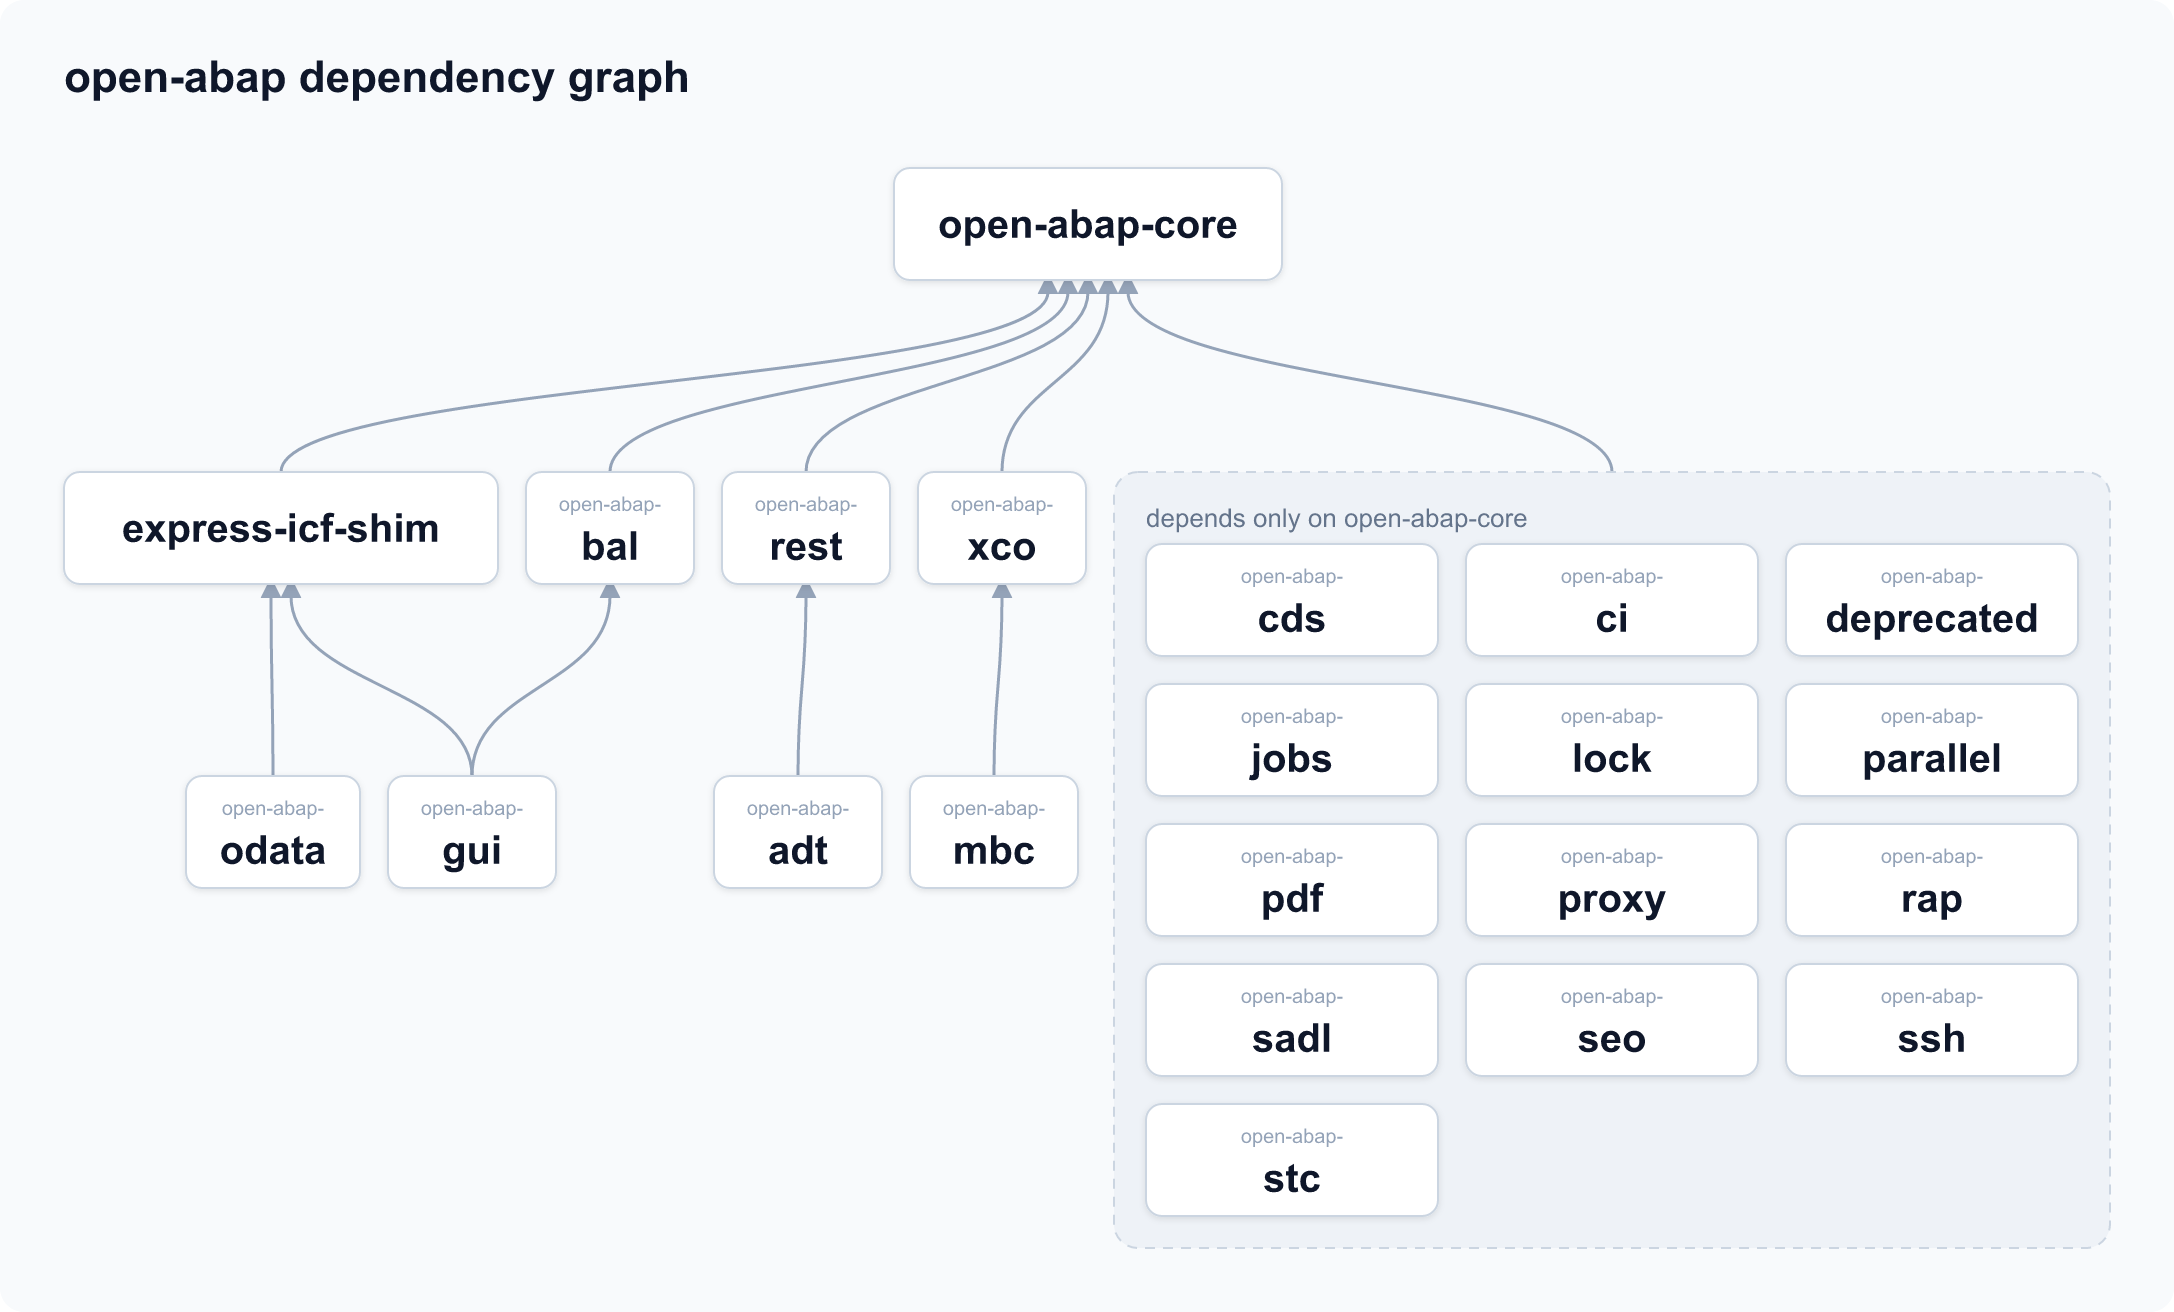
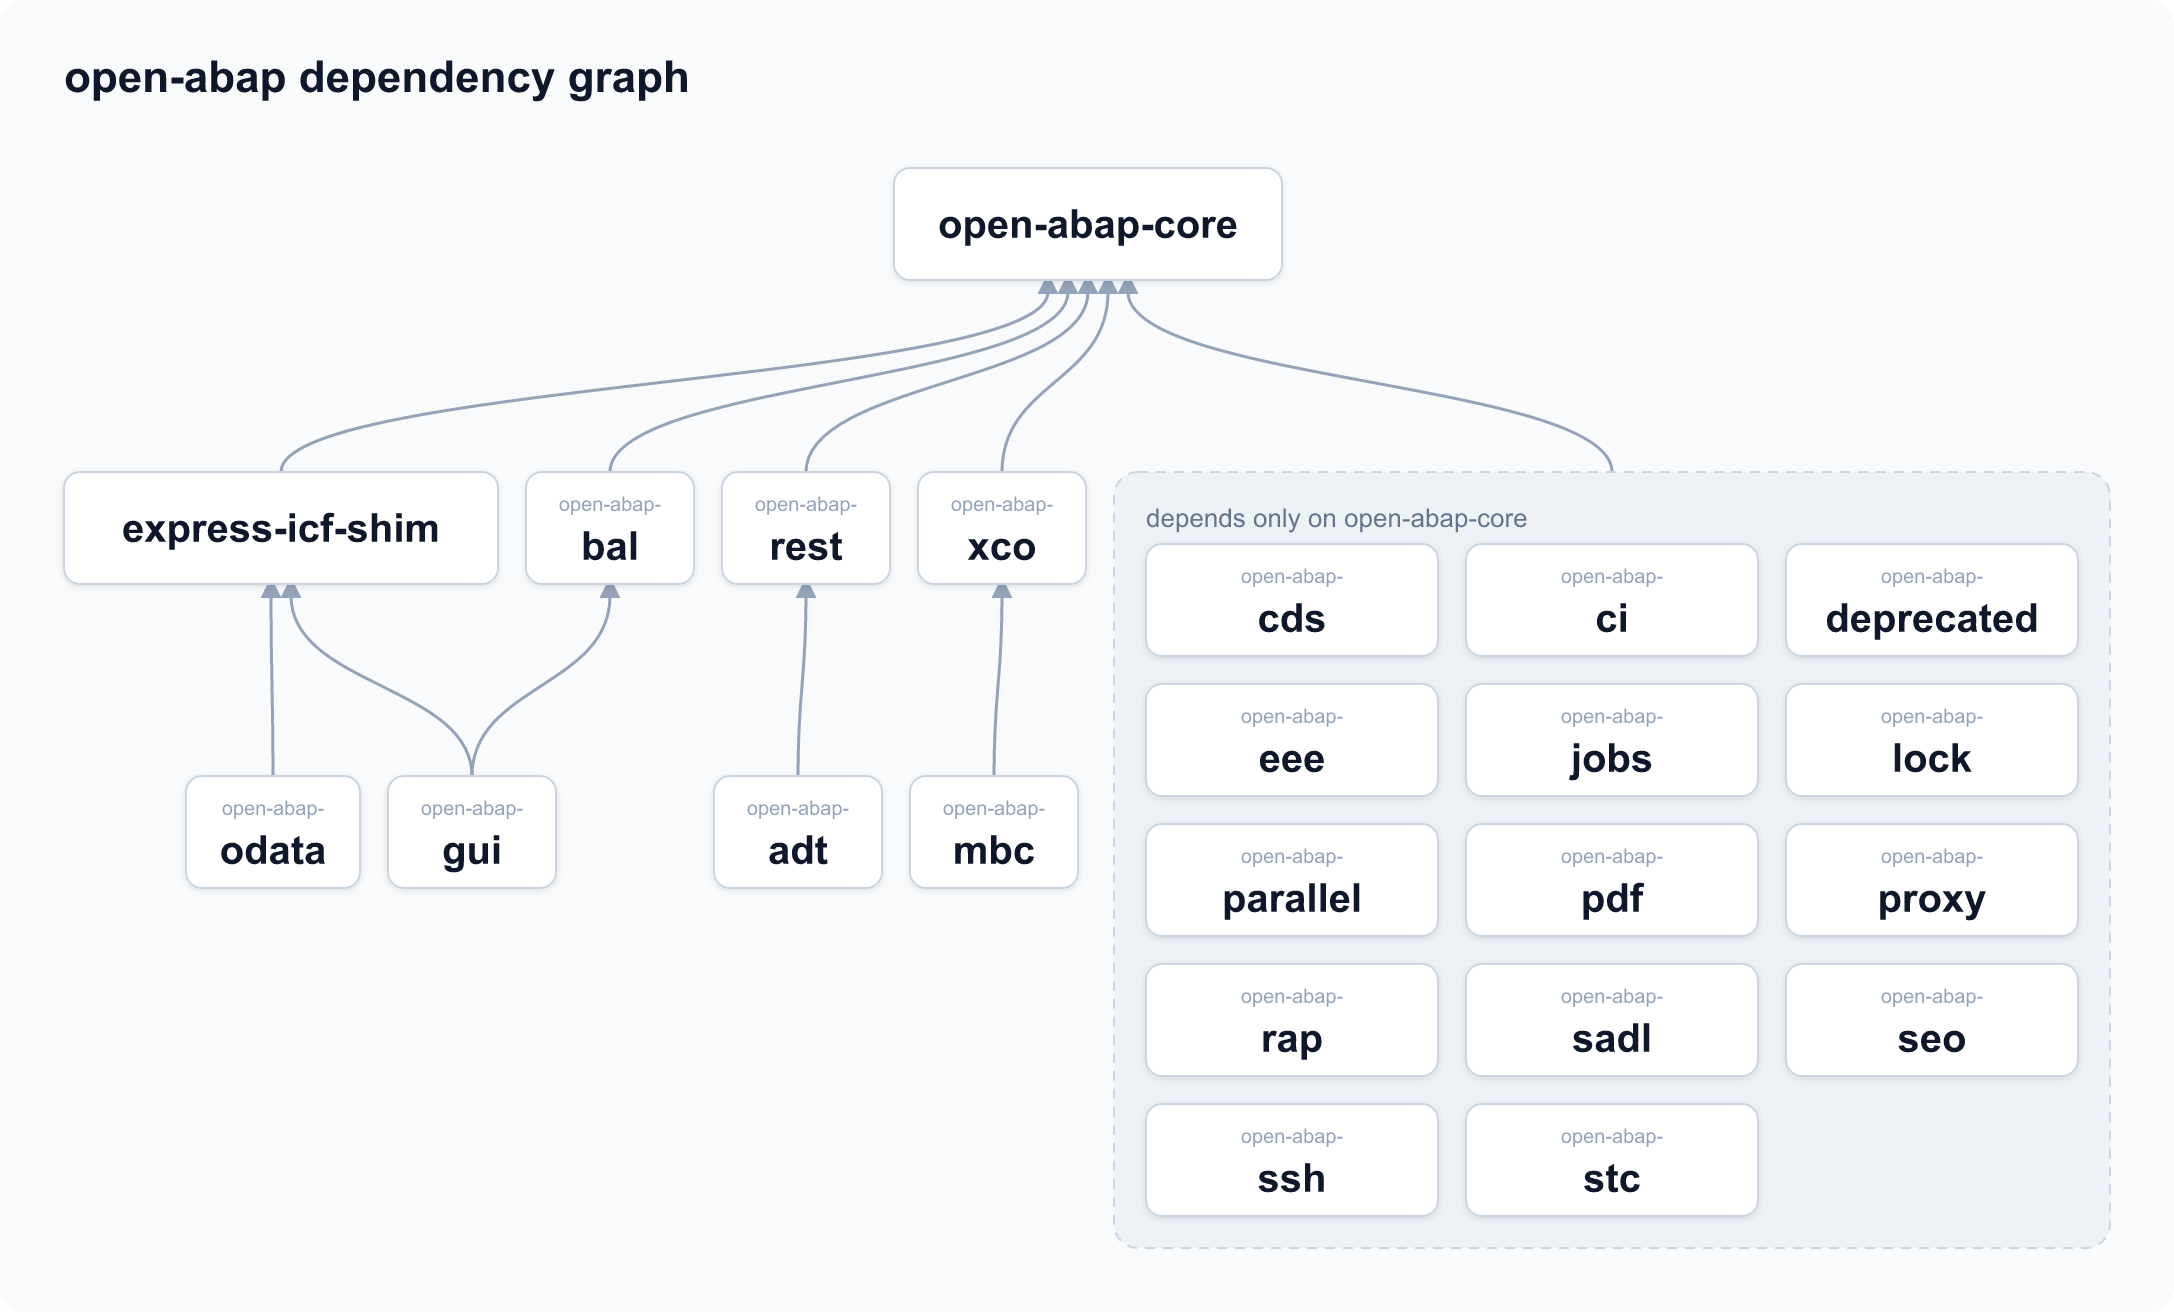
add eee (#2)

diff --git a/profile/README.md b/profile/README.md
@@ -2,14 +2,15 @@ Fast sustainable Continuous Integration enabling Preview Deployments
 
 ### Basics
 * [open-abap-core](https://github.com/open-abap/open-abap-core) Basics
-* [open-abap-deprecated](https://github.com/open-abap/open-abap-deprecated) 👷
+* [open-abap-deprecated](https://github.com/open-abap/open-abap-deprecated) Deprecated objects
 
 ### Extras
 * [open-abap-adt](https://github.com/open-abap/open-abap-adt) ADT REST scaffolding
 * [open-abap-bal](https://github.com/open-abap/open-abap-bal) Business Application Logging
 * [open-abap-brf](https://github.com/open-abap/open-abap-brf) 😅 BRF+
-* [open-abap-cds](https://github.com/open-abap/open-abap-cds) CDS
+* [open-abap-cds](https://github.com/open-abap/open-abap-cds) CDS - Core Data Services
 * [open-abap-ci](https://github.com/open-abap/open-abap-ci) Code Inspector / ATC
+* [open-abap-eee](https://github.com/open-abap/open-abap-eee) Enterprise Eventing
 * [open-abap-gui](https://github.com/open-abap/open-abap-gui) GUI scaffolding
 * [open-abap-jobs](https://github.com/open-abap/open-abap-jobs) Background jobs
 * [open-abap-lock](https://github.com/open-abap/open-abap-lock) Concurrent locking/enqueue
@@ -19,10 +20,10 @@ Fast sustainable Continuous Integration enabling Preview Deployments
 * [open-abap-proxy](https://github.com/open-abap/open-abap-proxy) Proxy
 * [open-abap-rap](https://github.com/open-abap/open-abap-rap) RESTful Application Programming Model
 * [open-abap-rest](https://github.com/open-abap/open-abap-rest) REST classes
-* [open-abap-sadl](https://github.com/open-abap/open-abap-sadl) SADL
+* [open-abap-sadl](https://github.com/open-abap/open-abap-sadl) SADL - Semantic ABAP Data Layer
 * [open-abap-seo](https://github.com/open-abap/open-abap-seo) ABAP OO Dev Tools
 * [open-abap-stc](https://github.com/open-abap/open-abap-stc) Technical Configurations
-* [open-abap-xco](https://github.com/open-abap/open-abap-xco) XCO
+* [open-abap-xco](https://github.com/open-abap/open-abap-xco) XCO - Extension Components
 
 ### Misc
 
